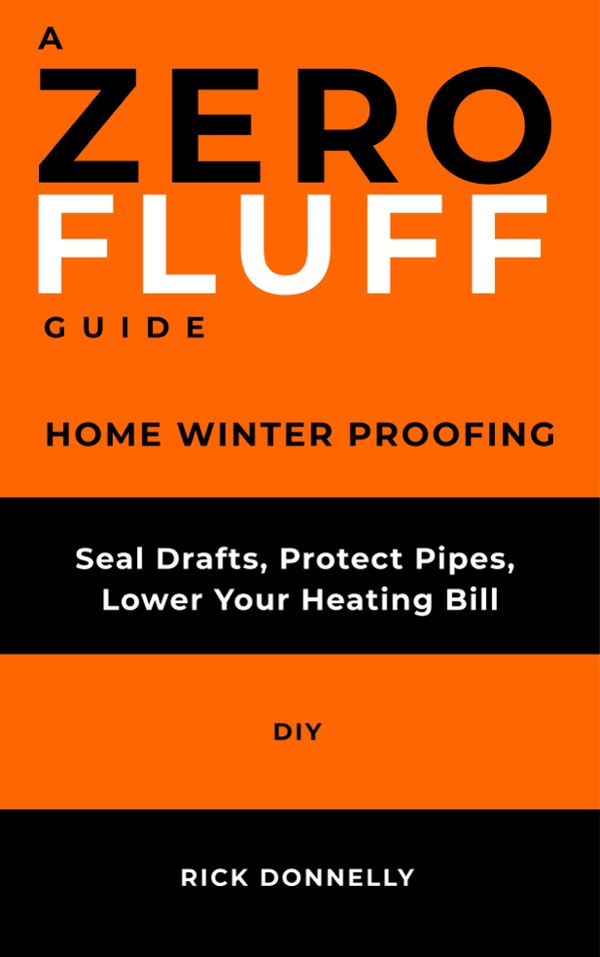
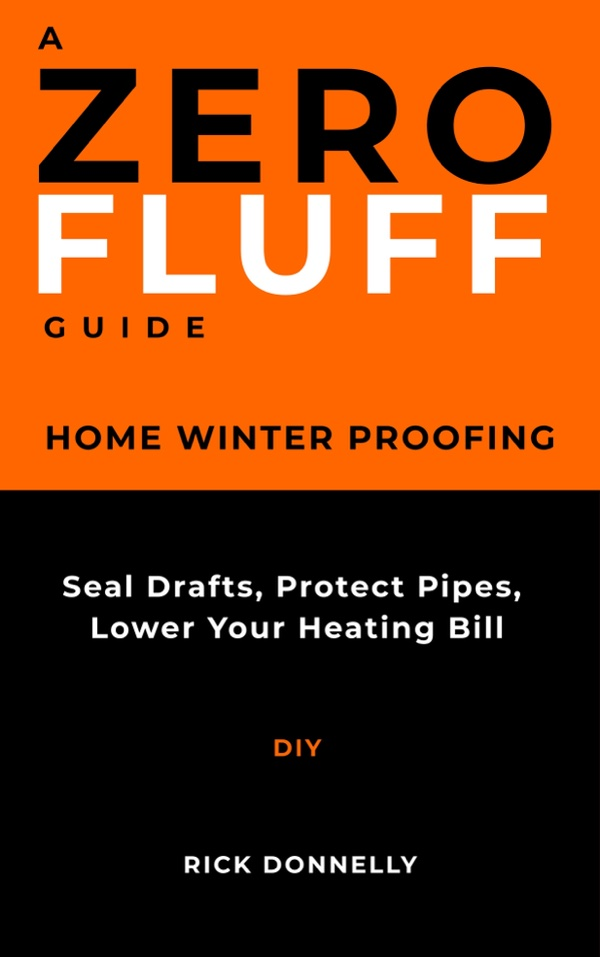
Split-design covers for all four books; Task Batching subtitle and Strength Training author on /preview
- Debt Snowball cover + share image from Drive 1.jpg (?v=4)
- /preview covers from 4.jpg, 3.jpg, 2.jpg (?v=2)
- Task Batching subtitle: Cutting Your Weekly To-Do List From 40 Tasks to 12
- Strength Training author: Kate Westcott (matches cover)

Claude-Session: https://claude.ai/code/session_01VK39D9B8TVfYpwQ8aJiqLP

Changed region(s): [[0.0, 0.4242, 1.0, 0.8485], [0.3, 0.8788, 0.69, 0.9394]]

diff --git a/preview.html b/preview.html
@@ -12,13 +12,13 @@
 <meta property="og:url" content="https://zerofluffguides.com">
 <meta property="og:type" content="website">
 <meta property="og:site_name" content="Zero Fluff Guides">
-<meta property="og:image" content="https://zerofluffguides.com/assets/share/zero-fluff-guides-share.jpg?v=3">
+<meta property="og:image" content="https://zerofluffguides.com/assets/share/zero-fluff-guides-share.jpg?v=4">
 <meta property="og:image:width" content="1200">
 <meta property="og:image:height" content="630">
 <meta name="twitter:card" content="summary_large_image">
 <meta name="twitter:title" content="Zero Fluff Guides">
 <meta name="twitter:description" content="Short, direct books built around one problem and one working plan to fix it. Real numbers, real steps, and free tools that do the math for you.">
-<meta name="twitter:image" content="https://zerofluffguides.com/assets/share/zero-fluff-guides-share.jpg?v=3">
+<meta name="twitter:image" content="https://zerofluffguides.com/assets/share/zero-fluff-guides-share.jpg?v=4">
 <link rel="preconnect" href="https://fonts.googleapis.com">
 <link rel="preconnect" href="https://fonts.gstatic.com" crossorigin>
 <link href="https://fonts.googleapis.com/css2?family=Oswald:wght@500;600;700&family=Lora:ital,wght@0,400;0,600;1,400&display=swap" rel="stylesheet">
@@ -291,7 +291,7 @@
       <div class="book-main">
       <div class="book-cover-wrap">
         <div class="niche-tab finance debt-snowball"></div>
-        <img class="book-cover" src="/assets/covers/debt-snowball.jpg?v=3" width="600" height="957" alt="Debt Snowball Method by Dan Orwin cover">
+        <img class="book-cover" src="/assets/covers/debt-snowball.jpg?v=4" width="600" height="957" alt="Debt Snowball Method by Dan Orwin cover">
       </div>
       <div class="book-body">
         <div class="book-meta">
@@ -313,7 +313,7 @@
       <div class="book-main">
       <div class="book-cover-wrap">
         <div class="niche-tab productivity task-batching"></div>
-        <img class="book-cover" src="/assets/covers/task-batching.jpg?v=1" width="600" height="957" alt="Task Batching by Cole Ashford cover">
+        <img class="book-cover" src="/assets/covers/task-batching.jpg?v=2" width="600" height="957" alt="Task Batching by Cole Ashford cover">
       </div>
       <div class="book-body">
         <div class="book-meta">
@@ -321,7 +321,7 @@
           <span class="pen-name">Cole Ashford</span>
         </div>
         <div class="book-title">Task Batching</div>
-        <div class="book-sub">Cutting Your Weekly To-Do List from 40 Tasks to 12</div>
+        <div class="book-sub">Cutting Your Weekly To-Do List From 40 Tasks to 12</div>
         <div class="book-hook">If your week is 40 small tasks scattered across every day, you never get a clear run at anything. This short plan shows you how to group similar tasks into batches, give each batch its own time block, and cut your weekly list down to about 12 real items, and you can read it in one evening. A free worksheet helps you sort your tasks into batches and saves only on your own device.</div>
         <div class="book-actions">
           <span class="book-soon">Coming soon</span>
@@ -334,12 +334,12 @@
       <div class="book-main">
       <div class="book-cover-wrap">
         <div class="niche-tab womens-health strength-training"></div>
-        <img class="book-cover" src="/assets/covers/strength-training.jpg?v=1" width="600" height="957" alt="Strength Training by Barbra Richards cover">
+        <img class="book-cover" src="/assets/covers/strength-training.jpg?v=2" width="600" height="957" alt="Strength Training by Kate Westcott cover">
       </div>
       <div class="book-body">
         <div class="book-meta">
           <span class="niche-name womens-health">Women&rsquo;s Health</span>
-          <span class="pen-name">Barbra Richards</span>
+          <span class="pen-name">Kate Westcott</span>
         </div>
         <div class="book-title">Strength Training</div>
         <div class="book-sub">Your First 8 Weeks With Simple Home Workouts</div>
@@ -355,7 +355,7 @@
       <div class="book-main">
       <div class="book-cover-wrap">
         <div class="niche-tab diy home-winter-proofing"></div>
-        <img class="book-cover" src="/assets/covers/home-winter-proofing.jpg?v=1" width="600" height="957" alt="Home Winter Proofing by Rick Donnelly cover">
+        <img class="book-cover" src="/assets/covers/home-winter-proofing.jpg?v=2" width="600" height="957" alt="Home Winter Proofing by Rick Donnelly cover">
       </div>
       <div class="book-body">
         <div class="book-meta">

diff --git a/index.html b/index.html
@@ -11,13 +11,13 @@
 <meta property="og:url" content="https://zerofluffguides.com">
 <meta property="og:type" content="website">
 <meta property="og:site_name" content="Zero Fluff Guides">
-<meta property="og:image" content="https://zerofluffguides.com/assets/share/zero-fluff-guides-share.jpg?v=3">
+<meta property="og:image" content="https://zerofluffguides.com/assets/share/zero-fluff-guides-share.jpg?v=4">
 <meta property="og:image:width" content="1200">
 <meta property="og:image:height" content="630">
 <meta name="twitter:card" content="summary_large_image">
 <meta name="twitter:title" content="Zero Fluff Guides">
 <meta name="twitter:description" content="Short, direct books built around one problem and one working plan to fix it. Real numbers, real steps, and free tools that do the math for you.">
-<meta name="twitter:image" content="https://zerofluffguides.com/assets/share/zero-fluff-guides-share.jpg?v=3">
+<meta name="twitter:image" content="https://zerofluffguides.com/assets/share/zero-fluff-guides-share.jpg?v=4">
 <link rel="preconnect" href="https://fonts.googleapis.com">
 <link rel="preconnect" href="https://fonts.gstatic.com" crossorigin>
 <link href="https://fonts.googleapis.com/css2?family=Oswald:wght@500;600;700&family=Lora:ital,wght@0,400;0,600;1,400&display=swap" rel="stylesheet">
@@ -284,7 +284,7 @@
       <div class="book-main">
       <div class="book-cover-wrap">
         <div class="niche-tab finance debt-snowball"></div>
-        <img class="book-cover" src="/assets/covers/debt-snowball.jpg?v=3" width="600" height="957" alt="Debt Snowball Method by Dan Orwin cover">
+        <img class="book-cover" src="/assets/covers/debt-snowball.jpg?v=4" width="600" height="957" alt="Debt Snowball Method by Dan Orwin cover">
       </div>
       <div class="book-body">
         <div class="book-meta">
